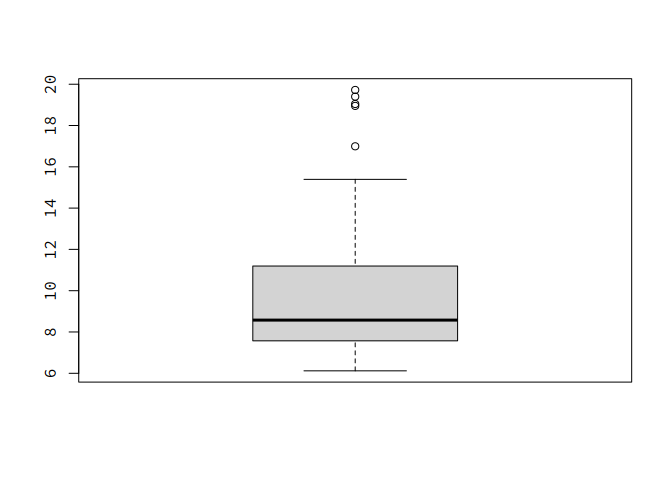
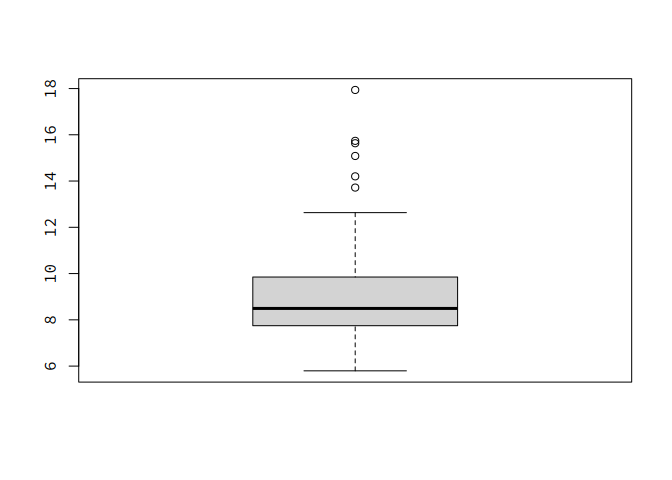
sorka :x

diff --git a/docs/README.md b/docs/README.md
@@ -34,7 +34,7 @@ algorytm PRS (dla `iters` wywołań)
         return(replicate(iters, single_prs()))
     }
 
-`calculate_prs` - zwraca liste najmniejszych wartości znalezionych przez
+`calculate_ga` - zwraca liste najmniejszych wartości znalezionych przez
 algorytm GA (dla `iters` wywołań)
 
     calculate_ga <- function(fitness, iters) {
@@ -83,11 +83,11 @@ Podsumowanie:
     summary(ackley_2_ga)
 
     ##    Min. 1st Qu.  Median    Mean 3rd Qu.    Max. 
-    ## 0.01486 0.15179 0.34969 0.54694 0.68592 2.37585
+    ## 0.04226 0.24917 0.48617 0.64572 1.05818 2.32429
 
 Średnia wartość:
 
-    ## [1] 0.5469414
+    ## [1] 0.6457218
 
 ### PRS
 
@@ -104,11 +104,11 @@ Podsumowanie:
     summary(ackley_2_prs)
 
     ##    Min. 1st Qu.  Median    Mean 3rd Qu.    Max. 
-    ##  0.8964  3.2435  4.0078  4.0499  5.2466  7.1488
+    ##   2.471   3.220   4.271   4.183   4.870   6.665
 
 Średnia wartość:
 
-    ## [1] 4.049896
+    ## [1] 4.182729
 
 ## Dla dwóch wymiarów - Funkcja Rastrigina
 
@@ -132,11 +132,11 @@ Podsumowanie:
     summary(rastrigin_2_ga)
 
     ##    Min. 1st Qu.  Median    Mean 3rd Qu.    Max. 
-    ##  0.1221  0.9320  1.2760  1.5608  1.9742  4.6783
+    ## 0.03901 0.99834 1.29663 1.51375 2.22478 4.47149
 
 Średnia wartość:
 
-    ## [1] 1.560783
+    ## [1] 1.513747
 
 ### PRS
 
@@ -153,11 +153,11 @@ Podsumowanie:
     summary(rastrigin_2_prs)
 
     ##    Min. 1st Qu.  Median    Mean 3rd Qu.    Max. 
-    ##  0.6852  1.2421  1.8017  1.9249  2.2943  4.2690
+    ## 0.01156 1.31749 2.02479 1.95775 2.51225 4.06667
 
 Średnia wartość:
 
-    ## [1] 1.924854
+    ## [1] 1.957755
 
 ## Dla dziesięciu wymiarów - Funkcja Ackley’a
 
@@ -181,11 +181,11 @@ Podsumowanie:
     summary(ackley_10_ga)
 
     ##    Min. 1st Qu.  Median    Mean 3rd Qu.    Max. 
-    ##   2.667   4.406   4.708   4.841   5.260   6.565
+    ##   3.973   4.713   5.064   6.162   5.482  19.557
 
 Średnia wartość:
 
-    ## [1] 4.841204
+    ## [1] 6.162155
 
 ### PRS
 
@@ -202,11 +202,11 @@ Podsumowanie:
     summary(ackley_10_prs)
 
     ##    Min. 1st Qu.  Median    Mean 3rd Qu.    Max. 
-    ##   17.31   17.94   18.24   18.30   18.62   19.40
+    ##   16.72   17.75   18.46   18.31   18.78   19.37
 
 Średnia wartość:
 
-    ## [1] 18.29903
+    ## [1] 18.31244
 
 ## Dla dziesięciu wymiarów - Funkcja Rastringa
 
@@ -230,11 +230,11 @@ Podsumowanie:
     summary(rastrigin_10_ga)
 
     ##    Min. 1st Qu.  Median    Mean 3rd Qu.    Max. 
-    ##   48.73   64.95   71.22   73.01   81.01   95.08
+    ##   42.44   68.41   78.28   78.15   86.35  107.14
 
 Średnia wartość:
 
-    ## [1] 73.01218
+    ## [1] 78.14743
 
 ### PRS
 
@@ -251,11 +251,11 @@ Podsumowanie:
     summary(rastrigin_10_prs)
 
     ##    Min. 1st Qu.  Median    Mean 3rd Qu.    Max. 
-    ##   62.71   79.63   84.68   84.42   92.39  100.56
+    ##   57.61   76.59   85.34   84.24   92.32  103.26
 
 Średnia wartość:
 
-    ## [1] 84.41884
+    ## [1] 84.23634
 
 ## Dla dwudziestu wymiarów - Funkcja Ackley’a
 
@@ -279,11 +279,11 @@ Podsumowanie:
     summary(ackley_20_ga)
 
     ##    Min. 1st Qu.  Median    Mean 3rd Qu.    Max. 
-    ##   6.117   7.573   8.574   9.896  10.996  19.722
+    ##   5.795   7.802   8.493   9.441   9.791  17.939
 
 Średnia wartość:
 
-    ## [1] 9.896396
+    ## [1] 9.440547
 
 ### PRS
 
@@ -300,11 +300,11 @@ Podsumowanie:
     summary(ackley_20_prs)
 
     ##    Min. 1st Qu.  Median    Mean 3rd Qu.    Max. 
-    ##   18.86   19.65   19.90   19.81   20.05   20.24
+    ##   18.52   19.82   19.98   19.90   20.11   20.40
 
 Średnia wartość:
 
-    ## [1] 19.80556
+    ## [1] 19.90343
 
 ## Dla dwudziestu wymiarów - Funkcja Rastringa
 
@@ -328,11 +328,11 @@ Podsumowanie:
     summary(rastrigin_20_ga)
 
     ##    Min. 1st Qu.  Median    Mean 3rd Qu.    Max. 
-    ##   136.5   185.5   197.2   195.6   208.2   237.2
+    ##   135.7   177.4   197.1   194.6   209.6   247.2
 
 Średnia wartość:
 
-    ## [1] 195.5636
+    ## [1] 194.6455
 
 ### PRS
 
@@ -349,8 +349,8 @@ Podsumowanie:
     summary(rastrigin_20_prs)
 
     ##    Min. 1st Qu.  Median    Mean 3rd Qu.    Max. 
-    ##   157.8   221.3   231.6   228.8   239.6   258.0
+    ##   179.8   223.2   231.3   230.3   239.6   253.4
 
 Średnia wartość:
 
-    ## [1] 228.8318
+    ## [1] 230.2534
